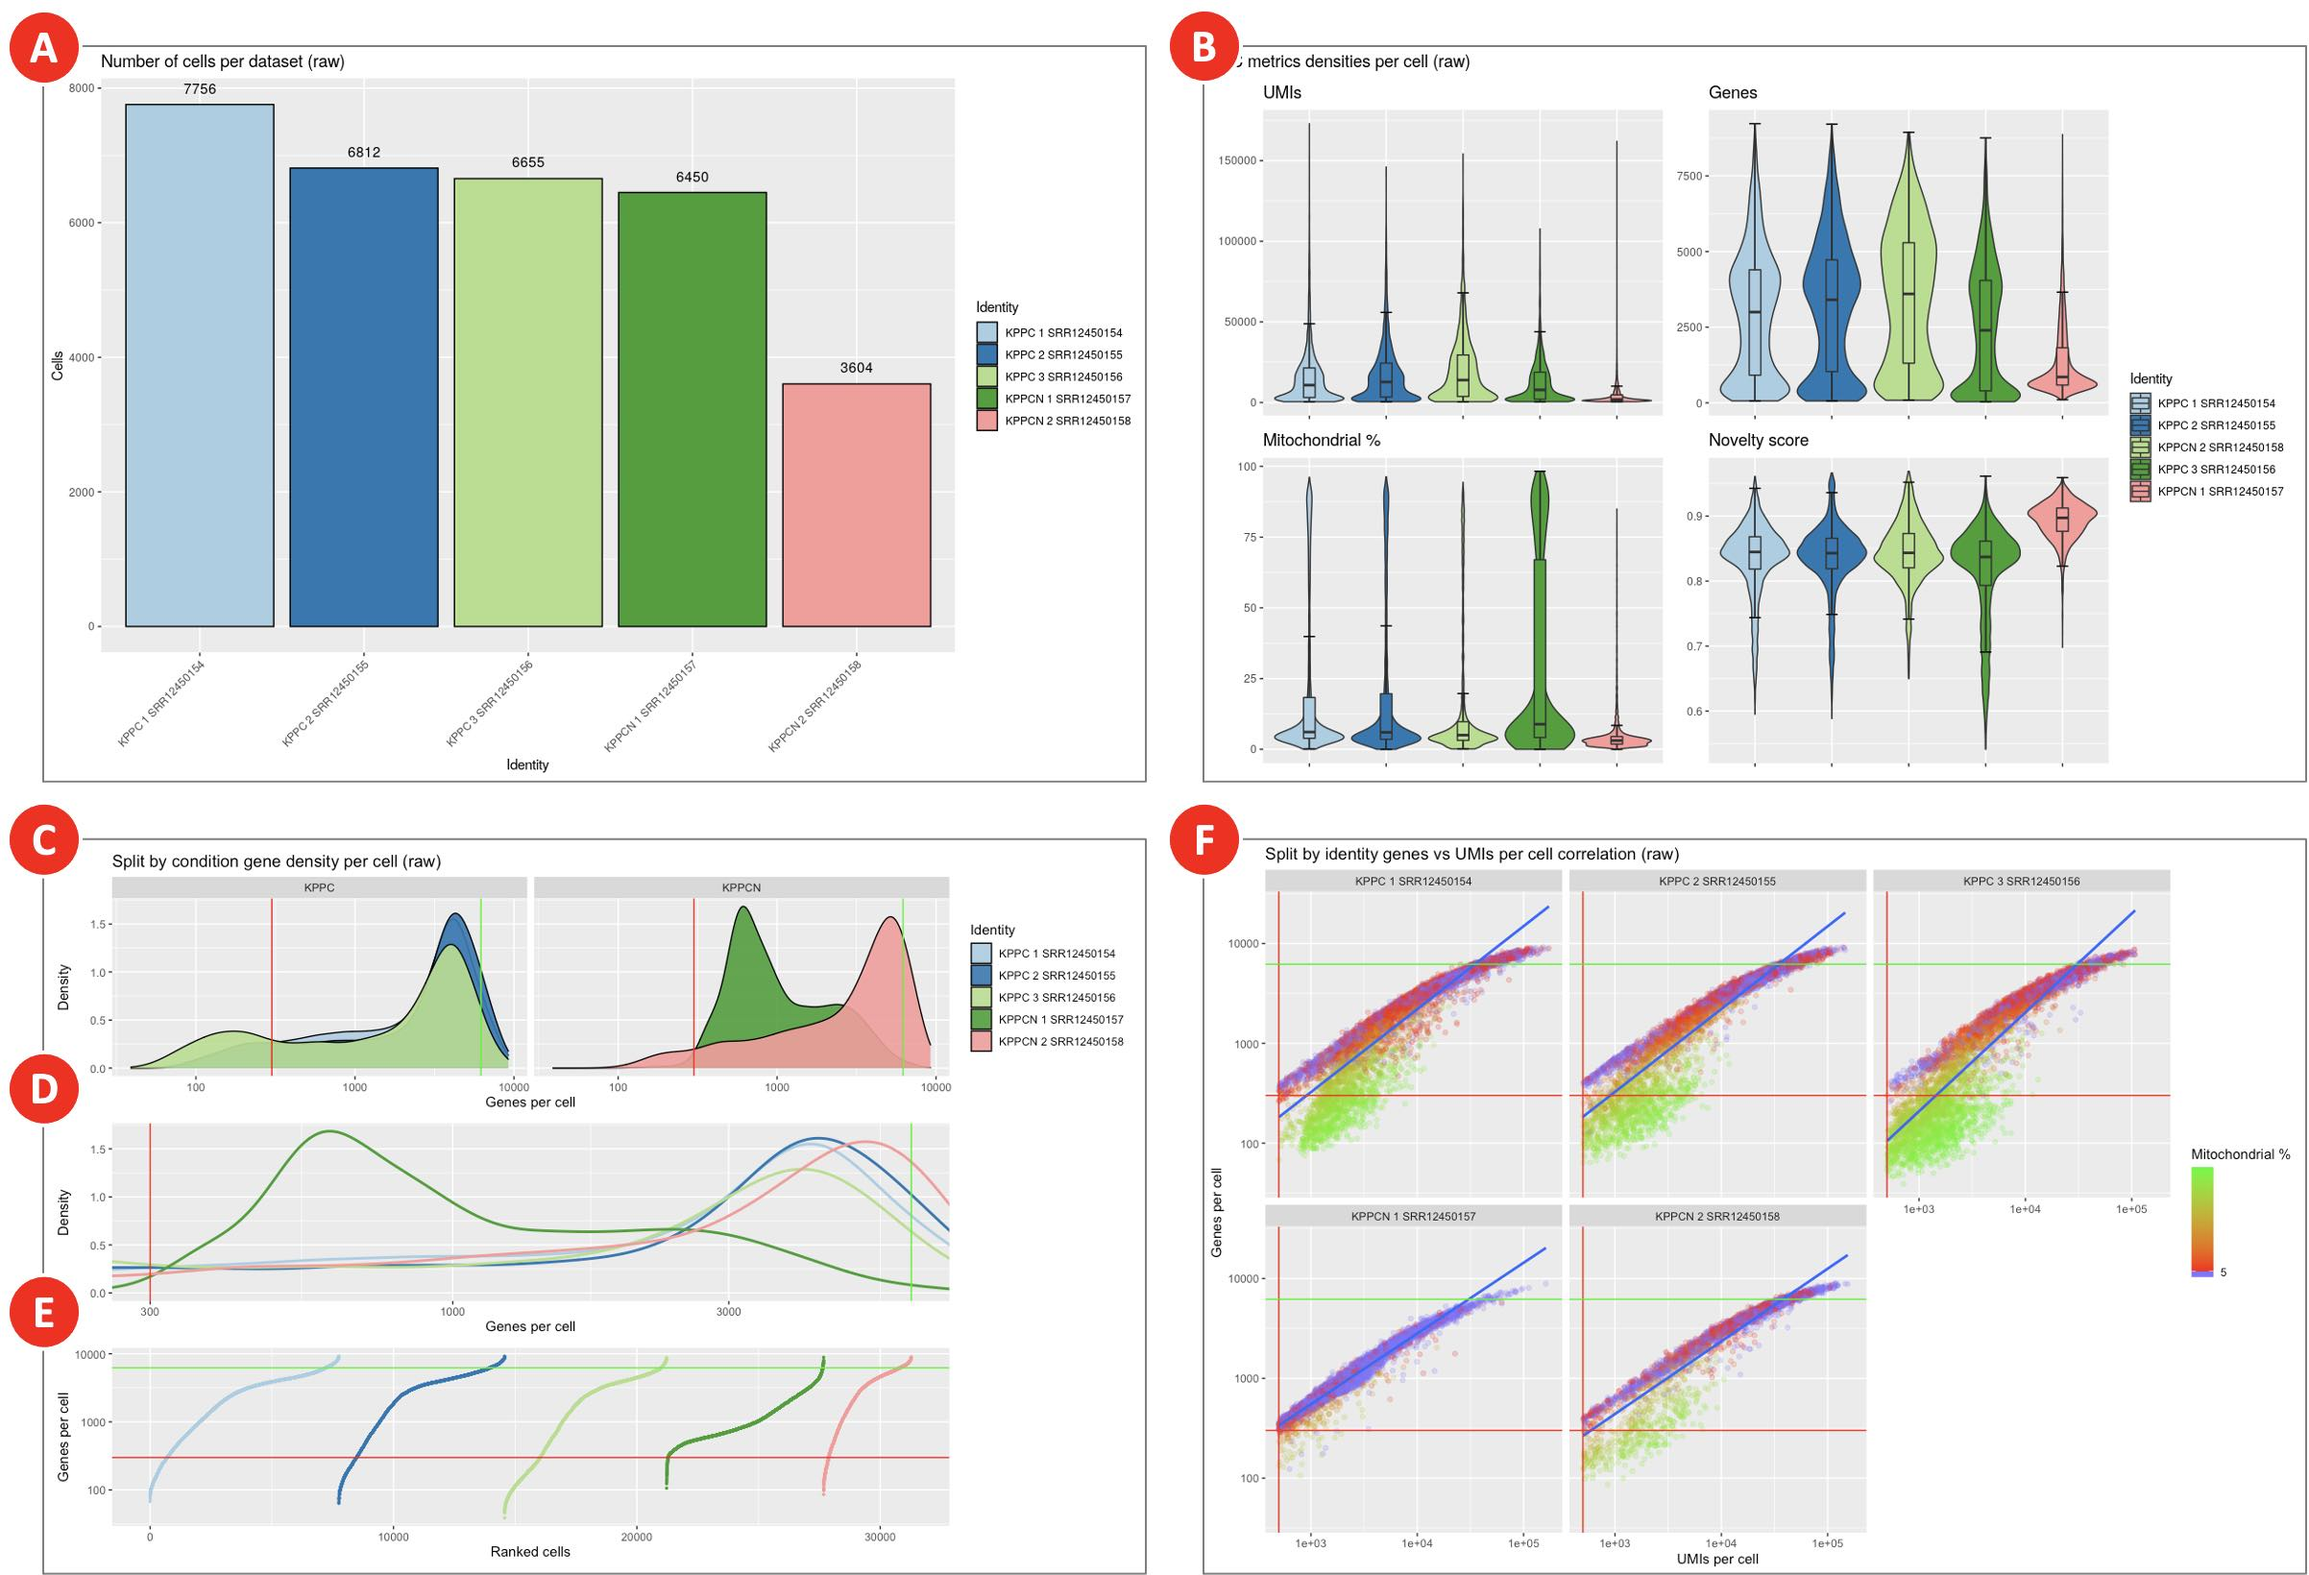
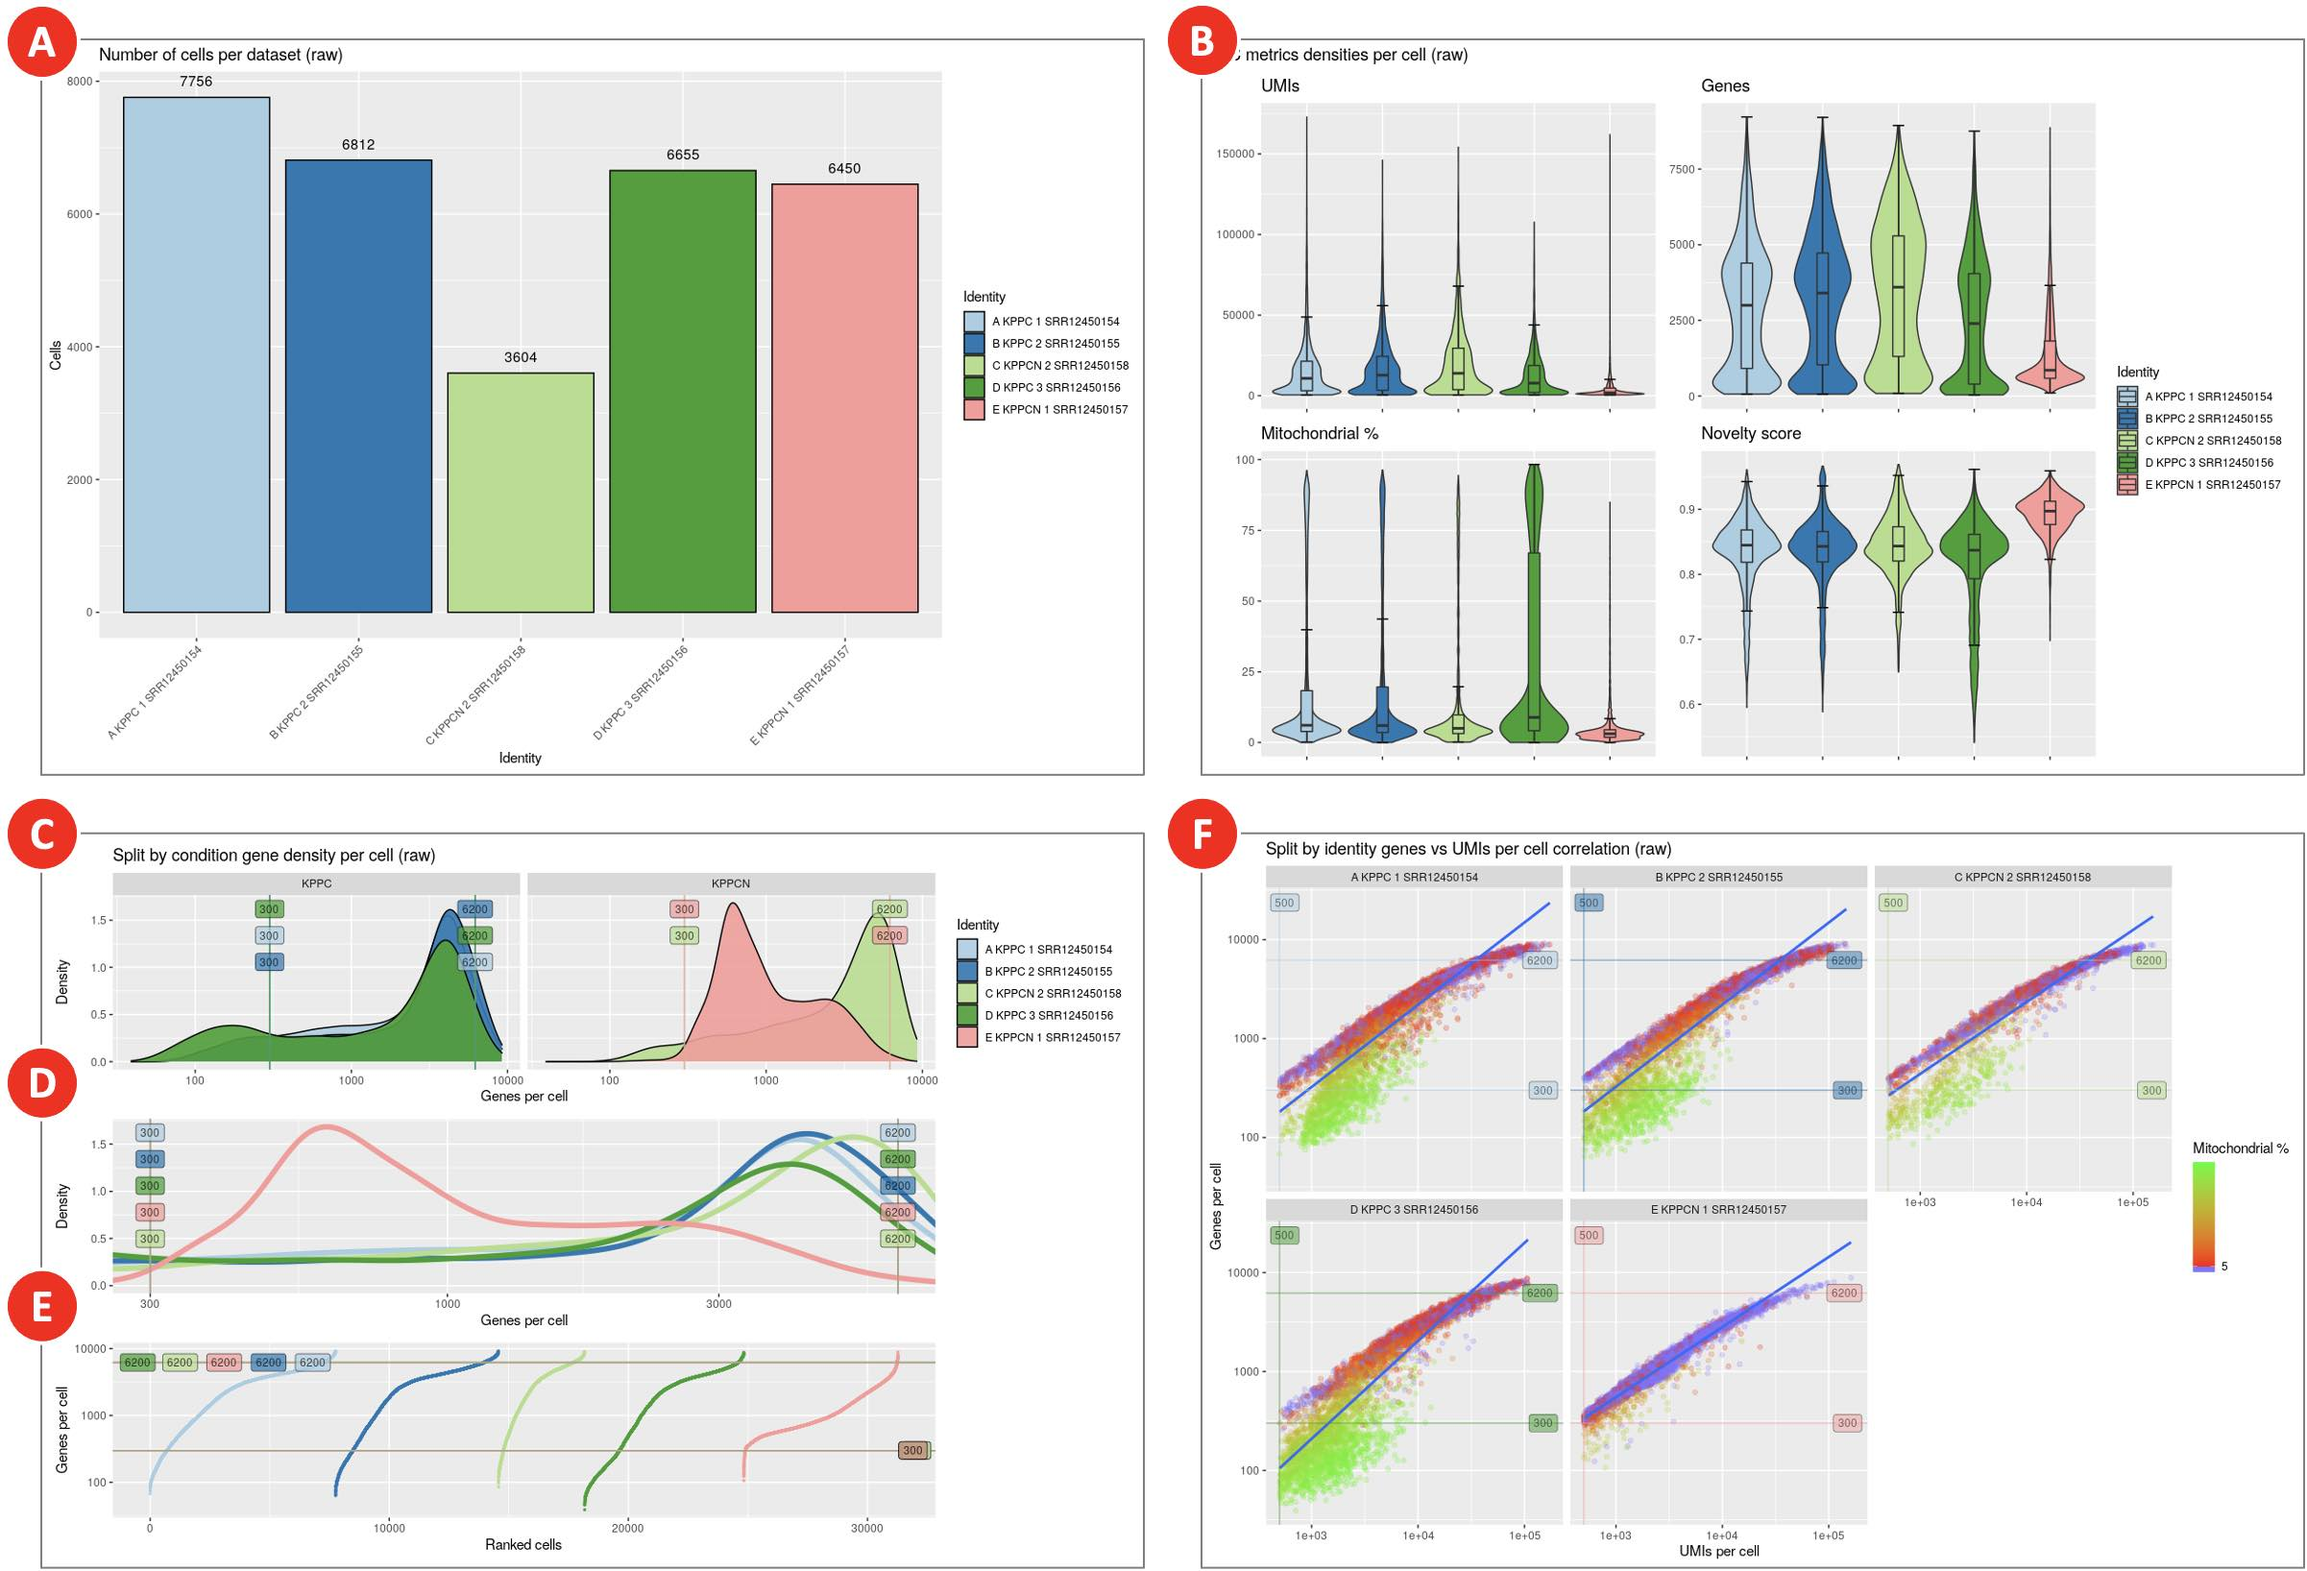
Update images and readme

diff --git a/docs/index.md b/docs/index.md
@@ -127,6 +127,9 @@ The joint analysis of multiple scRNA-Seq datasets with [Seurat](https://satijala
 | Pattern to identify mitochondrial genes | ^Mt- | ^mt-<sup>2</sup> |
 | Number of highly variable genes to detect (used for dataset integration and dimensional reduction) | 3000 | 3000 |
 | Number of principal components to use in UMAP projection and clustering (from 1 to 50) | 10 | 20<sup>3</sup> |
+| The effective scale of embedded points on UMAP. In combination with the parameter below determines how clustered/clumped the embedded points are. | 1 | 1 |
+| Controls how tightly the embedding is allowed compress points together on UMAP. Larger values ensure embedded points are more evenly distributed, while smaller values allow the algorithm to optimise more accurately with regard to local structure. Sensible values are in the range 0.001 to 0.5. | 0.3 | 0.3 |
+| Determines the number of neighboring points used in UMAP. Larger values will result in more global structure being preserved at the loss of detailed local structure. In general this parameter should often be in the range 5 to 50. | 30 | 30 |
 | Regress cell cycle as a confounding source of variation | False | False |
 | Regress mitochondrial gene expression as a confounding source of variation | False | False |
 | Clustering resolution | 0.1 | 0.5<sup>4</sup> |
@@ -155,9 +158,9 @@ The joint analysis of multiple scRNA-Seq datasets with [Seurat](https://satijala
 |---|---|
 | KPPC 1 SRR12450154 | KPPC |
 | KPPC 2 SRR12450155 | KPPC |
+| KPPCN 2 SRR12450158 | KPPCN |
 | KPPC 3 SRR12450156 | KPPC |
 | KPPCN 1 SRR12450157 | KPPCN |
-| KPPCN 2 SRR12450158 | KPPCN |
 
 ## **Step 6.** Explore clustering results
 
@@ -171,7 +174,7 @@ Cell Ranger Count Gene Expression pipeline uses advanced cell-calling algorithm 
 ![](./images/tutorial/figure_7.jpg)
 ***Figure 7. QC metrics for not filtered merged datasets***
 
-*Genes per cell density distribution plot (C) is split into KPPC and KPPCN groups. Zoomed in section of the density plot (D) displays all 5 datasets within the selected boundaries. Cell rank plot (E) displays cells sorted by gene per cell counts within each dataset. The lower and upper limits for genes per cell values are shown as red and green lines correspondingly. On the genes per cell over UMIs per cell correlation plot (F) a vertical red line indicates the minimum threshold for UMIs per cell values. All the cells with the percentage of transcripts mapped to mitochondrial genes below 5% are marked as blue.*
+*Genes per cell density distribution plot (C) is split into KPPC and KPPCN groups. Zoomed in section of the density plot (D) displays all 5 datasets within the selected boundaries. Cell rank plot (E) displays cells sorted by gene per cell counts within each dataset. The lower and upper limits for genes per cell values are shown for each dataset separately. On the genes per cell over UMIs per cell correlation plot (F) the vertical lines indicate the minimum thresholds for UMIs per cell values. All the cells with the percentage of transcripts mapped to the mitochondrial genes below 5% are marked as blue.*
 
 - A combined effect of filtering by UMI counts, gene counts, and by the percentage of mitochondrial reads is shown on the genes per cell over UMIs per cell correlation plot (Figure 8A). The plot displays the remaining cells after all QC filters have been applied.
 - The Elbow plot (Figure 8B) is used to evaluate the dimensionality of the filtered integrated datasets by selecting only those principal components that capture the majority of the data variation. Typically, it is defined by the principal component after which the plot starts to plateau.
@@ -198,7 +201,7 @@ Cell Ranger Count Gene Expression pipeline uses advanced cell-calling algorithm 
 
 *Depending on the option selected on the Annotation tab, UCSC Cell Browser highlights identified clusters (A), groups datasets by specified condition (B), colors cells based on the percentage of mitochondrial genes expressed (C), and generates a barcodes list for a selected group of cells (D).*
 
-- On the **Putative gene markers** tab (Figure 11A) an interactive table includes gene markers for each cluster. The column names correspond to the output of [FindAllMarkers](https://www.rdocumentation.org/packages/Seurat/versions/4.0.3/topics/FindAllMarkers) function Seurat 4.0.1 R package. On the **Files** tab (Figure 11B) the list of all generated files is available for download. Among these files the **seurat_clst_data_rds.rds** (Figure 11C) includes Seurat clustering data in a format compatible with RStudio.
+- On the **Putative gene markers** tab (Figure 11A) an interactive table includes gene markers for each cluster. The column names correspond to the output of [FindAllMarkers](https://www.rdocumentation.org/packages/Seurat/versions/4.0.3/topics/FindAllMarkers) function Seurat 4.0.3 R package. On the **Files** tab (Figure 11B) the list of all generated files is available for download. Among these files the **seurat_clst_data_rds.rds** (Figure 11C) includes Seurat clustering data in a format compatible with RStudio.
 
 ![](./images/tutorial/figure_11.jpg)
 ***Figure 11. Gene markers identification and direct download of workflow execution results***

diff --git a/README.md b/README.md
@@ -2,7 +2,7 @@
 [![Python 3.8](https://img.shields.io/badge/python-3.8-green.svg)](https://www.python.org/downloads/release/python-38/)
 # scRNA-Seq-Analysis
 
-**For detailed tutorial on how to use this set of workflows refer to the [Documenation](https://barski-lab.github.io/scRNA-Seq-Analysis/) page.**
+**For detailed documentation on how to use this set of workflows in SciDAP refer to the [Tutorials](https://barski-lab.github.io/scRNA-Seq-Analysis/) page.**
 
 This repository contains CWL pipelines for scRNA-Seq data analysis. Each of the used command line tools was wrapped into CWL format and combined into the workflows.
 
@@ -15,4 +15,38 @@ This repository contains CWL pipelines for scRNA-Seq data analysis. Each of the 
 - [FastQC](https://www.bioinformatics.babraham.ac.uk/projects/fastqc/) 0.11.5
 - [UCSC Cell Browser](https://github.com/maximilianh/cellBrowser) 1.0.1
 
-The workflows and tools are compatible with any CWL runner (see [CWL official page](https://www.commonwl.org/#Implementations) for a list of available runners).
+**Running from command line**
+
+All CWL files from this repository are compatible with any workflow management system or runner that implements CWL v1.0 standard (see the list [here](https://www.commonwl.org/#Implementations)). As an example, we will use [cwltool](https://github.com/common-workflow-language/cwltool) (the reference implementation) to show how to get the list of input parameters for any CWL file in order to run it from the command line. Additionally, we will show how to generate a template job definition file to be used as an alternative way of setting workflow input parameters. Please note, for a better portability and reprocibility all the tools used in our scRNA-Seq workflows are wrapped into Docker containers, thus a properly configured [Docker](https://www.docker.com/) installation is recommended.
+
+1. To get a list of all input parameters for the CWL workflow file run the following command.
+
+    ```
+    cwltool cellranger-mkref.cwl --help
+
+    Cell Ranger Build Reference Indices
+    Builds reference genome indices for Cell Ranger Gene Expression and Cell Ranger Multiome ATAC + Gene
+    Expression experiments.
+
+    positional arguments:
+    job_order             Job input json file
+
+    optional arguments:
+    -h, --help            show this help message and exit
+    --annotation_gtf_file ANNOTATION_GTF_FILE
+                            Reference genome GTF annotation file that includes refGene and mitochondrial DNA annotations
+    --genome_fasta_file GENOME_FASTA_FILE
+                            Reference genome FASTA file that includes all chromosomes
+    --memory_limit MEMORY_LIMIT
+                            Maximum memory used (GB). The same will be applied to virtual memory
+    --threads THREADS     Number of threads for those steps that support multithreading
+    ```
+2. To create a template for the job definition file run the following command.
+
+    ```
+    cwltool --make-template seurat-cluster.cwl > seurat-cluster-job.yml
+    ```
+    Open `seurat-cluster-job.yml` in a text editor, update input parameters, and run as follows.
+    ```
+    cwltool seurat-cluster.cwl seurat-cluster-job.yml
+    ```
